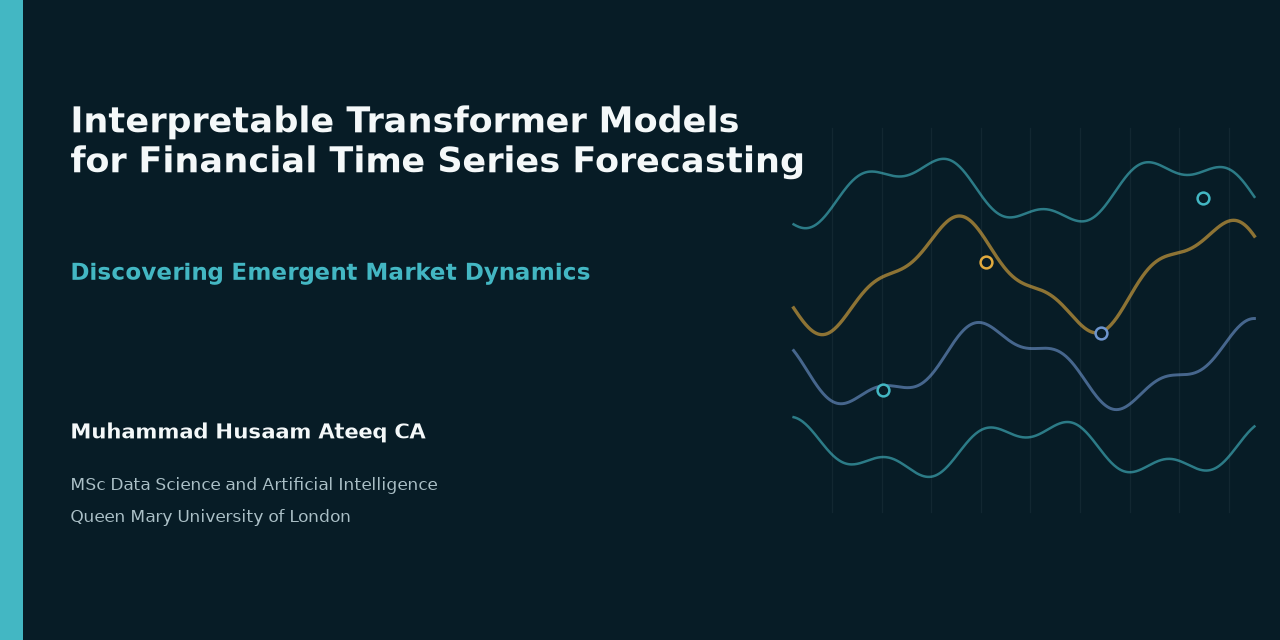
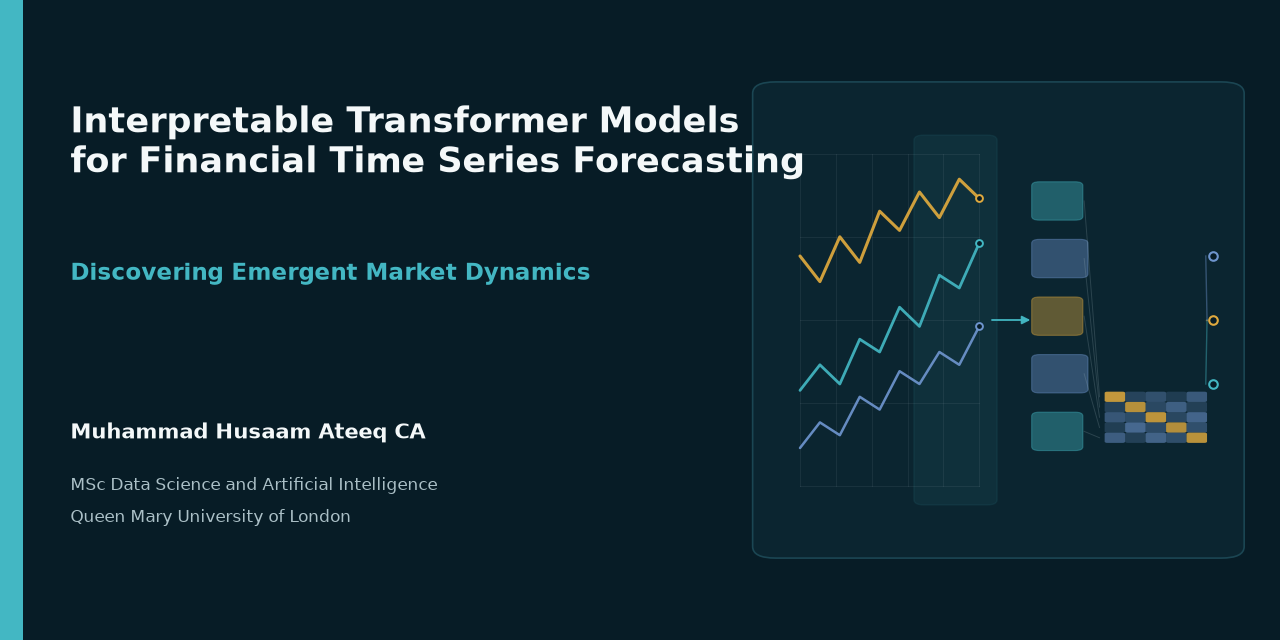
chore: finish repository release presentation

diff --git a/src/market_dynamics/reporting/readme_assets.py b/src/market_dynamics/reporting/readme_assets.py
@@ -506,28 +506,165 @@ def _make_social_preview(path: Path) -> None:
     ax.set_ylim(0, 1)
     ax.axis("off")
 
-    signal_x = np.linspace(0.62, 0.98, 500)
-    local_x = (signal_x - signal_x.min()) / np.ptp(signal_x)
-    signal_specs = (
-        (0.30, 0.035, BRIGHT_TEAL, 1.8),
-        (0.43, 0.055, BRIGHT_BLUE, 2.1),
-        (0.57, 0.075, BRIGHT_GOLD, 2.4),
-        (0.70, 0.045, BRIGHT_TEAL, 1.8),
+    ax.add_patch(
+        FancyBboxPatch(
+            (0.60, 0.14),
+            0.36,
+            0.72,
+            boxstyle="round,pad=0.012,rounding_size=0.018",
+            facecolor="#0B2530",
+            edgecolor="#1B4653",
+            linewidth=1.2,
+        )
     )
-    for baseline, amplitude, colour, linewidth in signal_specs:
-        signal_y = baseline + amplitude * np.sin(11 * local_x + baseline * 7)
-        signal_y += 0.018 * np.sin(31 * local_x + baseline * 5)
-        ax.plot(signal_x, signal_y, color=colour, alpha=0.62, linewidth=linewidth)
 
-    for x in np.linspace(0.65, 0.96, 9):
-        ax.plot((x, x), (0.20, 0.80), color=LIGHT_MID, alpha=0.07, linewidth=0.9)
-    for x, y, colour in (
-        (0.69, 0.39, BRIGHT_TEAL),
-        (0.77, 0.59, BRIGHT_GOLD),
-        (0.86, 0.48, BRIGHT_BLUE),
-        (0.94, 0.69, BRIGHT_TEAL),
-    ):
-        ax.scatter((x,), (y,), s=72, facecolor=NAVY, edgecolor=colour, linewidth=1.8, zorder=5)
+    chart_left, chart_right = 0.625, 0.765
+    chart_bottom, chart_top = 0.24, 0.76
+    for x in np.linspace(chart_left, chart_right, 6):
+        ax.plot(
+            (x, x),
+            (chart_bottom, chart_top),
+            color=LIGHT_MID,
+            alpha=0.09,
+            linewidth=0.8,
+        )
+    for y in np.linspace(chart_bottom, chart_top, 5):
+        ax.plot(
+            (chart_left, chart_right),
+            (y, y),
+            color=LIGHT_MID,
+            alpha=0.09,
+            linewidth=0.8,
+        )
+
+    time_points = np.linspace(chart_left, chart_right, 10)
+    trajectories = (
+        (
+            np.array([0.39, 0.43, 0.40, 0.47, 0.45, 0.52, 0.49, 0.57, 0.55, 0.62]),
+            BRIGHT_TEAL,
+            2.0,
+        ),
+        (
+            np.array([0.60, 0.56, 0.63, 0.59, 0.67, 0.64, 0.70, 0.66, 0.72, 0.69]),
+            BRIGHT_GOLD,
+            2.2,
+        ),
+        (
+            np.array([0.30, 0.34, 0.32, 0.38, 0.36, 0.42, 0.40, 0.45, 0.43, 0.49]),
+            BRIGHT_BLUE,
+            1.8,
+        ),
+    )
+    for values, colour, linewidth in trajectories:
+        ax.plot(
+            time_points,
+            values,
+            color=colour,
+            alpha=0.92,
+            linewidth=linewidth,
+            solid_capstyle="round",
+            solid_joinstyle="round",
+        )
+        ax.scatter(
+            (time_points[-1],),
+            (values[-1],),
+            s=24,
+            facecolor=NAVY,
+            edgecolor=colour,
+            linewidth=1.4,
+            zorder=5,
+        )
+
+    ax.add_patch(
+        FancyBboxPatch(
+            (0.718, 0.215),
+            0.057,
+            0.57,
+            boxstyle="round,pad=0.004,rounding_size=0.008",
+            facecolor=BRIGHT_TEAL,
+            edgecolor=BRIGHT_TEAL,
+            linewidth=1.0,
+            alpha=0.08,
+        )
+    )
+    _dark_arrow(ax, (0.775, 0.50), (0.805, 0.50), colour=BRIGHT_TEAL)
+
+    token_colours = (BRIGHT_TEAL, BRIGHT_BLUE, BRIGHT_GOLD, BRIGHT_BLUE, BRIGHT_TEAL)
+    token_y = np.linspace(0.30, 0.66, len(token_colours))
+    for index, (y, colour) in enumerate(zip(token_y, token_colours, strict=True)):
+        width = 0.032 + 0.004 * (index % 2)
+        ax.add_patch(
+            FancyBboxPatch(
+                (0.81, y),
+                width,
+                0.052,
+                boxstyle="round,pad=0.004,rounding_size=0.006",
+                facecolor=colour,
+                edgecolor=colour,
+                linewidth=0.8,
+                alpha=0.40,
+            )
+        )
+
+    attention_weights = np.array(
+        [
+            [0.95, 0.20, 0.35, 0.12, 0.45],
+            [0.18, 0.88, 0.26, 0.52, 0.16],
+            [0.42, 0.30, 0.92, 0.24, 0.58],
+            [0.14, 0.62, 0.28, 0.86, 0.34],
+            [0.50, 0.16, 0.56, 0.32, 0.90],
+        ]
+    )
+    matrix_left, matrix_bottom = 0.865, 0.31
+    cell_size, cell_gap = 0.012, 0.004
+    for row in range(attention_weights.shape[0]):
+        source_y = token_y[::-1][row] + 0.026
+        target_y = matrix_bottom + (4 - row) * (cell_size + cell_gap) + cell_size / 2
+        ax.plot(
+            (0.847, matrix_left - 0.006),
+            (source_y, target_y),
+            color=LIGHT_MID,
+            alpha=0.20,
+            linewidth=0.7,
+        )
+        for column in range(attention_weights.shape[1]):
+            weight = attention_weights[row, column]
+            colour = BRIGHT_GOLD if row == column else BRIGHT_BLUE
+            ax.add_patch(
+                FancyBboxPatch(
+                    (
+                        matrix_left + column * (cell_size + cell_gap),
+                        matrix_bottom + (4 - row) * (cell_size + cell_gap),
+                    ),
+                    cell_size,
+                    cell_size,
+                    boxstyle="round,pad=0.002,rounding_size=0.002",
+                    facecolor=colour,
+                    edgecolor="none",
+                    alpha=0.12 + 0.78 * weight,
+                )
+            )
+
+    output_x = 0.948
+    output_y = (0.40, 0.50, 0.60)
+    matrix_right = matrix_left + 4 * (cell_size + cell_gap) + cell_size
+    for y, colour in zip(output_y, (BRIGHT_TEAL, BRIGHT_GOLD, BRIGHT_BLUE), strict=True):
+        ax.plot(
+            (matrix_right + 0.002, output_x - 0.006),
+            (0.50, y),
+            color=colour,
+            alpha=0.42,
+            linewidth=1.0,
+        )
+        ax.scatter(
+            (output_x,),
+            (y,),
+            s=38,
+            facecolor=NAVY,
+            edgecolor=colour,
+            linewidth=1.5,
+            zorder=5,
+        )
 
     ax.add_patch(FancyBboxPatch((0.0, 0.0), 0.018, 1.0, boxstyle="square,pad=0", facecolor=BRIGHT_TEAL, edgecolor="none"))
     ax.text(

diff --git a/tests/test_readme_assets.py b/tests/test_readme_assets.py
@@ -132,6 +132,12 @@ def test_tracked_readme_assets_exist_without_local_path_metadata() -> None:
 
 def test_readme_retains_generated_research_graphics_and_social_preview() -> None:
     text = README.read_text(encoding="utf-8")
+    generator = (
+        ROOT / "src" / "market_dynamics" / "reporting" / "readme_assets.py"
+    ).read_text(encoding="utf-8")
+    social_preview_source = generator.split("def _make_social_preview", maxsplit=1)[1].split(
+        "def _dark_box", maxsplit=1
+    )[0]
 
     for name in (
         "graphical_abstract.svg",
@@ -144,6 +150,10 @@ def test_readme_retains_generated_research_graphics_and_social_preview() -> None
     assert "Static heterogeneity vs planted ordered signal" in (
         ASSETS / "graphical_abstract.svg"
     ).read_text(encoding="utf-8")
+    assert "np.sin" not in social_preview_source
+    assert "attention_weights" in social_preview_source
+    for forbidden_metric in ("0.790", "0.824", "0.492", "ROC-AUC", "PR-AUC"):
+        assert forbidden_metric not in social_preview_source
 
 
 def test_readme_navigation_and_contents_match_current_sections() -> None:
@@ -183,7 +193,7 @@ def test_readme_uses_exactly_the_requested_callout_hierarchy() -> None:
 
     assert text.count("> [!IMPORTANT]") == 1
     assert text.count("> [!TIP]") == 1
-    assert text.count("> [!NOTE]") == 2
+    assert text.count("> [!NOTE]") == 1
     assert "> [!WARNING]" not in text
     assert "> [!CAUTION]" not in text
 
@@ -216,6 +226,13 @@ def test_readme_uses_correct_main_and_secondary_study_framing() -> None:
     assert "20 pairs" in secondary_inline
     assert "0.6015 ± 0.0049" in secondary_inline
     assert "<details>" in secondary
+    expected_note = (
+        "> [!NOTE]\n"
+        "> The approximately 1.52 million observations are the sum of two distinct "
+        "experimental tracks: 306,174 daily observations and 1,213,437 hourly crypto "
+        "observations. They are not one unified dataset or one model-training sample."
+    )
+    assert f"</details>\n\n{expected_note}" in secondary
     assert "1.57 million" not in text
     assert "1.74%" not in text
     assert "46.80%" not in text
@@ -301,10 +318,12 @@ def test_final_dissertation_and_scoped_licensing_are_publicly_linked() -> None:
     assert "[CC BY 4.0](LICENSING.md#documentation-and-generated-figures)" in text
 
 
-def test_data_access_documents_exact_identifiers_and_current_terms_boundary() -> None:
+def test_data_access_documents_exact_identifiers_and_concise_terms_boundary() -> None:
     text = README.read_text(encoding="utf-8")
 
     assert "## Data access and reconstruction" in text
+    assert "### Data access and provider terms" in text
+    assert "### Recorded inputs and reconstruction path" in text
     for series_id in (
         "DFF",
         "DGS2",
@@ -315,10 +334,17 @@ def test_data_access_documents_exact_identifiers_and_current_terms_boundary() ->
         "DTWEXBGS",
     ):
         assert f"https://fred.stlouisfed.org/series/{series_id}" in text
-    assert "https://fred.stlouisfed.org/legal/terms/" in text
-    assert "https://legal.yahoo.com/us/en/yahoo/terms/otos/index.html" in text
-    assert "does not represent that current provider terms permit" in text
-    assert "Raw market/provider data" in text
+    normalized = " ".join(text.split())
+    assert (
+        "Raw market and macroeconomic provider data are not redistributed in this "
+        "repository."
+    ) in normalized
+    assert "Users wishing to reproduce the data should obtain the relevant series" in normalized
+    assert "Provider availability, licensing and terms may change over time." in normalized
+    assert "https://fred.stlouisfed.org/legal/terms/" not in text
+    assert "https://legal.yahoo.com/us/en/yahoo/terms/otos/index.html" not in text
+    assert "Current provider-terms notice" not in text
+    assert "machine-learning restrictions" not in text
     assert "source_symbol_yahoo" in text
 
 

diff --git a/README.md b/README.md
@@ -375,59 +375,40 @@ LICENSE / LICENSING.md     Scoped software, documentation and exclusion terms
 
 ## Data access and reconstruction
 
-Yahoo Finance supplied the historical daily OHLCV panel and FRED supplied seven
-macro/context series. Raw provider files are not redistributed. Public
-accessibility does not itself grant rights to download, cache, reuse or
-redistribute provider content. Researchers are responsible for checking current
-provider and original-source terms before acquiring data.
+### Data access and provider terms
+
+Raw market and macroeconomic provider data are not redistributed in this
+repository. The repository records the instrument universe, provider identifiers,
+feature definitions, configuration and research code needed to understand and,
+where permitted, reconstruct the study. Users wishing to reproduce the data should
+obtain the relevant series directly from the original provider or authorised
+source and are responsible for complying with the provider terms and obtaining any
+permissions required. Provider availability, licensing and terms may change over
+time.
+
+### Recorded inputs and reconstruction path
 
 The exact 80-instrument Yahoo symbol universe is recorded in the
 [`source_symbol_yahoo` column](configs/universes/daily_global_universe.csv). The
 separate [`crypto-hourly universe`](configs/universes/crypto_hourly_universe.csv),
-public [`quality and inclusion manifests`](data/manifests/) and the seven FRED IDs
-in [`phase2b_large_scale_config.yaml`](configs/phase2b_large_scale_config.yaml)
-record the remaining source identifiers. The historical acquisition path is
-documented by [`build_daily_global_panel.py`](scripts/build_daily_global_panel.py),
-the [`panel builder`](src/market_dynamics/data/panel_builders.py), the
+public [`quality and inclusion manifests`](data/manifests/) and the frozen
+[`phase2b_large_scale_config.yaml`](configs/phase2b_large_scale_config.yaml) record
+the remaining source identifiers. The seven macro/context series are
+[`DFF`](https://fred.stlouisfed.org/series/DFF),
+[`DGS2`](https://fred.stlouisfed.org/series/DGS2),
+[`DGS10`](https://fred.stlouisfed.org/series/DGS10),
+[`T10Y2Y`](https://fred.stlouisfed.org/series/T10Y2Y),
+[`VIXCLS`](https://fred.stlouisfed.org/series/VIXCLS),
+[`BAMLH0A0HYM2`](https://fred.stlouisfed.org/series/BAMLH0A0HYM2) and
+[`DTWEXBGS`](https://fred.stlouisfed.org/series/DTWEXBGS).
+
+The historical acquisition path is documented by
+[`build_daily_global_panel.py`](scripts/build_daily_global_panel.py), the
+[`panel builder`](src/market_dynamics/data/panel_builders.py), the
 [`Yahoo provider`](src/market_dynamics/data/providers/yfinance_provider.py) and the
-[`FRED provider`](src/market_dynamics/data/providers/fred_provider.py).
-
-| FRED ID | Current series label and source note | Reconstruction caution |
-|---|---|---|
-| [`DFF`](https://fred.stlouisfed.org/series/DFF) | Public Domain: Citation Requested; Federal Reserve Board | Prefer the original Federal Reserve source where its current terms permit. |
-| [`DGS2`](https://fred.stlouisfed.org/series/DGS2) | Public Domain: Citation Requested; Federal Reserve Board | Prefer the original Federal Reserve or Treasury source where permitted. |
-| [`DGS10`](https://fred.stlouisfed.org/series/DGS10) | Public Domain: Citation Requested; Federal Reserve Board | Prefer the original Federal Reserve or Treasury source where permitted. |
-| [`T10Y2Y`](https://fred.stlouisfed.org/series/T10Y2Y) | Copyrighted: Citation Required; calculated by the St. Louis Fed | An equivalent spread may be reconstructed from separately licensed 10-year and 2-year source series. |
-| [`VIXCLS`](https://fred.stlouisfed.org/series/VIXCLS) | Copyrighted: Citation Required; Cboe | Review Cboe permissions and attribution before use. |
-| [`BAMLH0A0HYM2`](https://fred.stlouisfed.org/series/BAMLH0A0HYM2) | Copyrighted: Pre-Approval Required; ICE Data Indices | ICE notes require prior approval for reproduction and now limit FRED history to three years. |
-| [`DTWEXBGS`](https://fred.stlouisfed.org/series/DTWEXBGS) | Public Domain: Citation Requested; Federal Reserve Board | Prefer the original Federal Reserve source where its current terms permit. |
-
-> **Current provider-terms notice (reviewed 18 August 2026):** the current
-> [FRED Services and API terms](https://fred.stlouisfed.org/legal/terms/)
-> expressly restrict using FRED content or the API for machine-learning
-> development or training and also restrict storing, caching and archiving FRED
-> content. Yahoo's current
-> [general terms](https://legal.yahoo.com/us/en/yahoo/terms/otos/index.html)
-> restrict automated collection without prior permission, and `yfinance` is an
-> unofficial client. The repository therefore documents the historical workflow
-> and identifiers but does not represent that current provider terms permit a
-> fresh automated reconstruction. Review the live terms and seek permission or
-> use an authorised original source where appropriate. This is a provider-terms
-> warning, not a legal conclusion or a retrospective determination about the
-> frozen study.
-
-The FRED panel used current-vintage downloads with a conservative availability
-lag rather than a complete point-in-time ALFRED reconstruction. Provider
-availability, terms, identifiers and historical coverage can change. In
-particular, `BAMLH0A0HYM2` no longer offers the original historical depth through
-FRED. This product uses the FRED® API but is not endorsed or certified by the
-Federal Reserve Bank of St. Louis.
-
-> [!NOTE]
-> Raw market/provider data, private predictions and model checkpoints are not
-> redistributed. Public reconstruction is limited to identifiers, acquisition
-> code, manifests, configurations and compact frozen evidence. Any fresh data
-> acquisition remains subject to current source terms and permissions.
+[`FRED provider`](src/market_dynamics/data/providers/fred_provider.py). The macro
+panel used current-vintage downloads with a conservative availability lag rather
+than a complete point-in-time ALFRED reconstruction.
 
 ---
 
@@ -461,12 +442,10 @@ processed **1,519,611 observations (approximately 1.52 million)**. This is not o
 unified dataset or one model-training sample. The daily Transformer used the
 separate 306,174-row daily panel.
 
-> [!NOTE]
-> The approximately 1.52 million observations are the sum of two distinct
-> experimental tracks: 306,174 daily observations and 1,213,437 hourly crypto
-> observations. They are not one unified dataset or one model-training sample.
-
 </details>
+
+> [!NOTE]
+> The approximately 1.52 million observations are the sum of two distinct experimental tracks: 306,174 daily observations and 1,213,437 hourly crypto observations. They are not one unified dataset or one model-training sample.
 
 ## Scope and limitations
 
